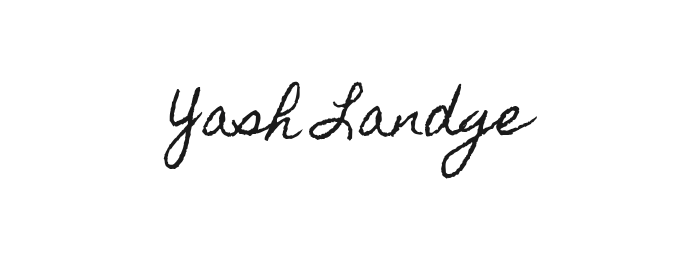
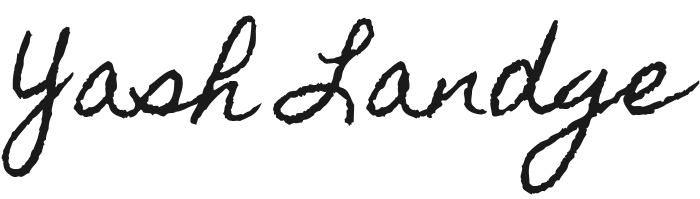
Update 'Yash Sing' PNG dimensions in homepage and mobile hero components

Changed region(s): [[0.0, 0.0603, 1.0, 0.995]]

diff --git a/app/page.tsx b/app/page.tsx
@@ -180,7 +180,7 @@ export default function Home() {
         {/* Center text */}
         <div className="absolute top-[42%] left-[calc(50%+30px)] -translate-x-1/2 -translate-y-1/2 flex flex-col items-center z-10">
           <div className="relative mb-4 hero-entrance overflow-hidden" style={{ animation: "hero-blur-in 0.6s ease-out 0.3s both" }}>
-            <img src="/yash-sing.png" alt="Yash Sing" className="h-[84px] md:h-[104px]" draggable={false} />
+            <img src="/yash-sing.png" alt="Yash Sing" className="h-[200px] md:h-[220px]" draggable={false} />
             {/* Glare sweep */}
             <div className="absolute inset-0 pointer-events-none" style={{ animation: "hero-glare 1.2s ease-in-out 5s both" }}>
               <div className="absolute top-0 h-full w-[60%] -skew-x-12" style={{

diff --git a/app/components/mobile-hero.tsx b/app/components/mobile-hero.tsx
@@ -288,7 +288,7 @@ export function MobileHero() {
 
         {/* Name + tagline */}
         <div className="flex flex-col items-center">
-          <img src="/yash-sing.png" alt="Yash Sing" className="h-[49px] mb-1.5" draggable={false} />
+          <img src="/yash-sing.png" alt="Yash Sing" className="h-[165px] mb-1.5" draggable={false} />
           <p className="font-[family-name:var(--font-noto)] text-[9px] text-stone-500 text-center tracking-[0.18em] uppercase" style={{ lineHeight: "1.8" }}>
             I think, then I build.
           </p>
